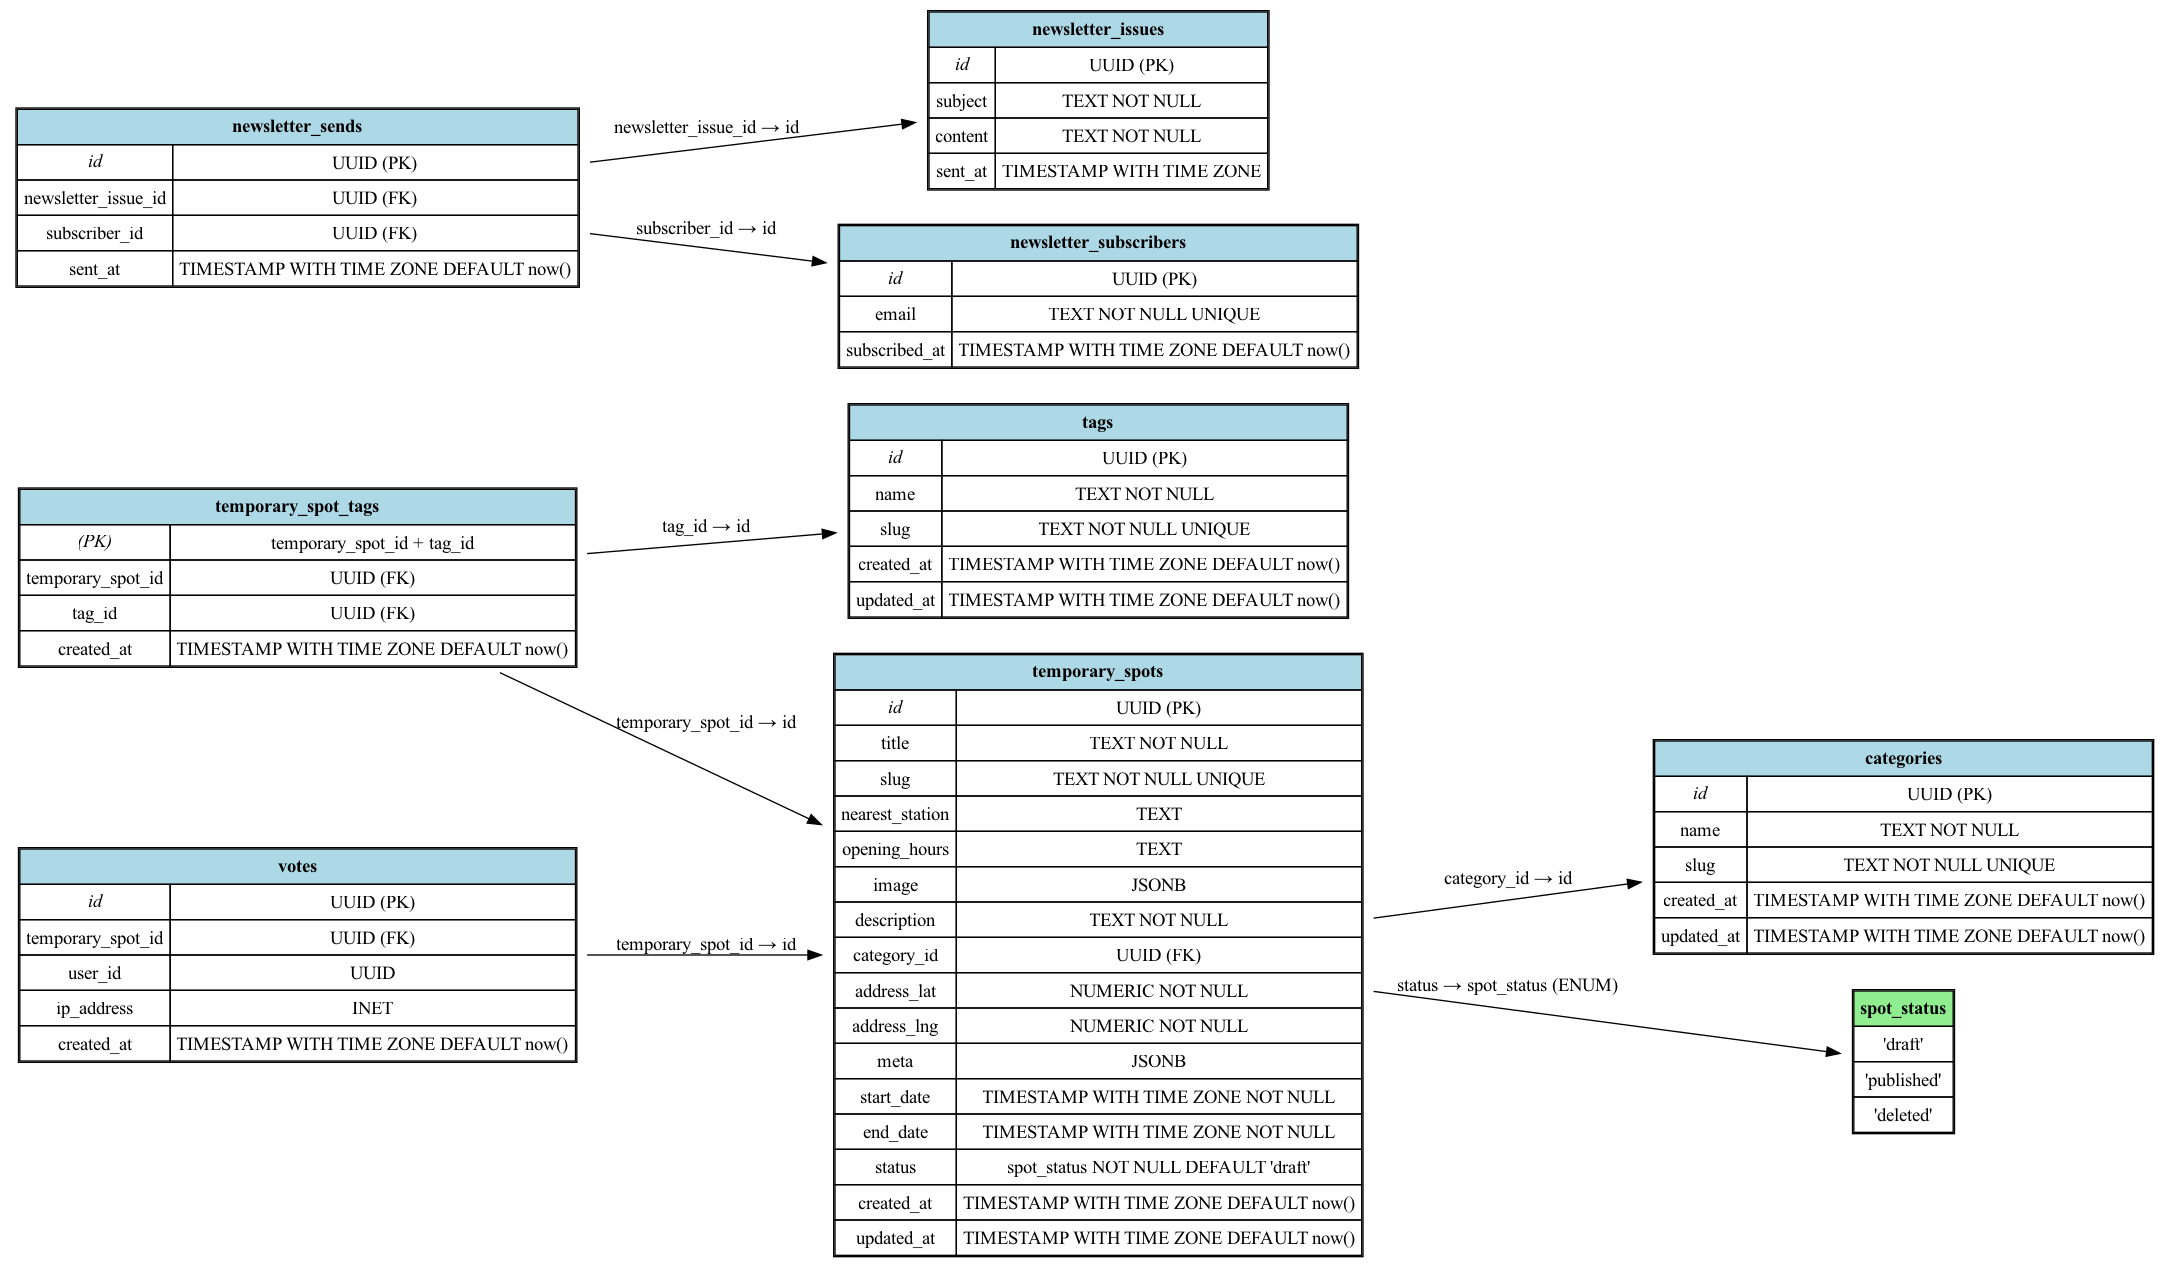
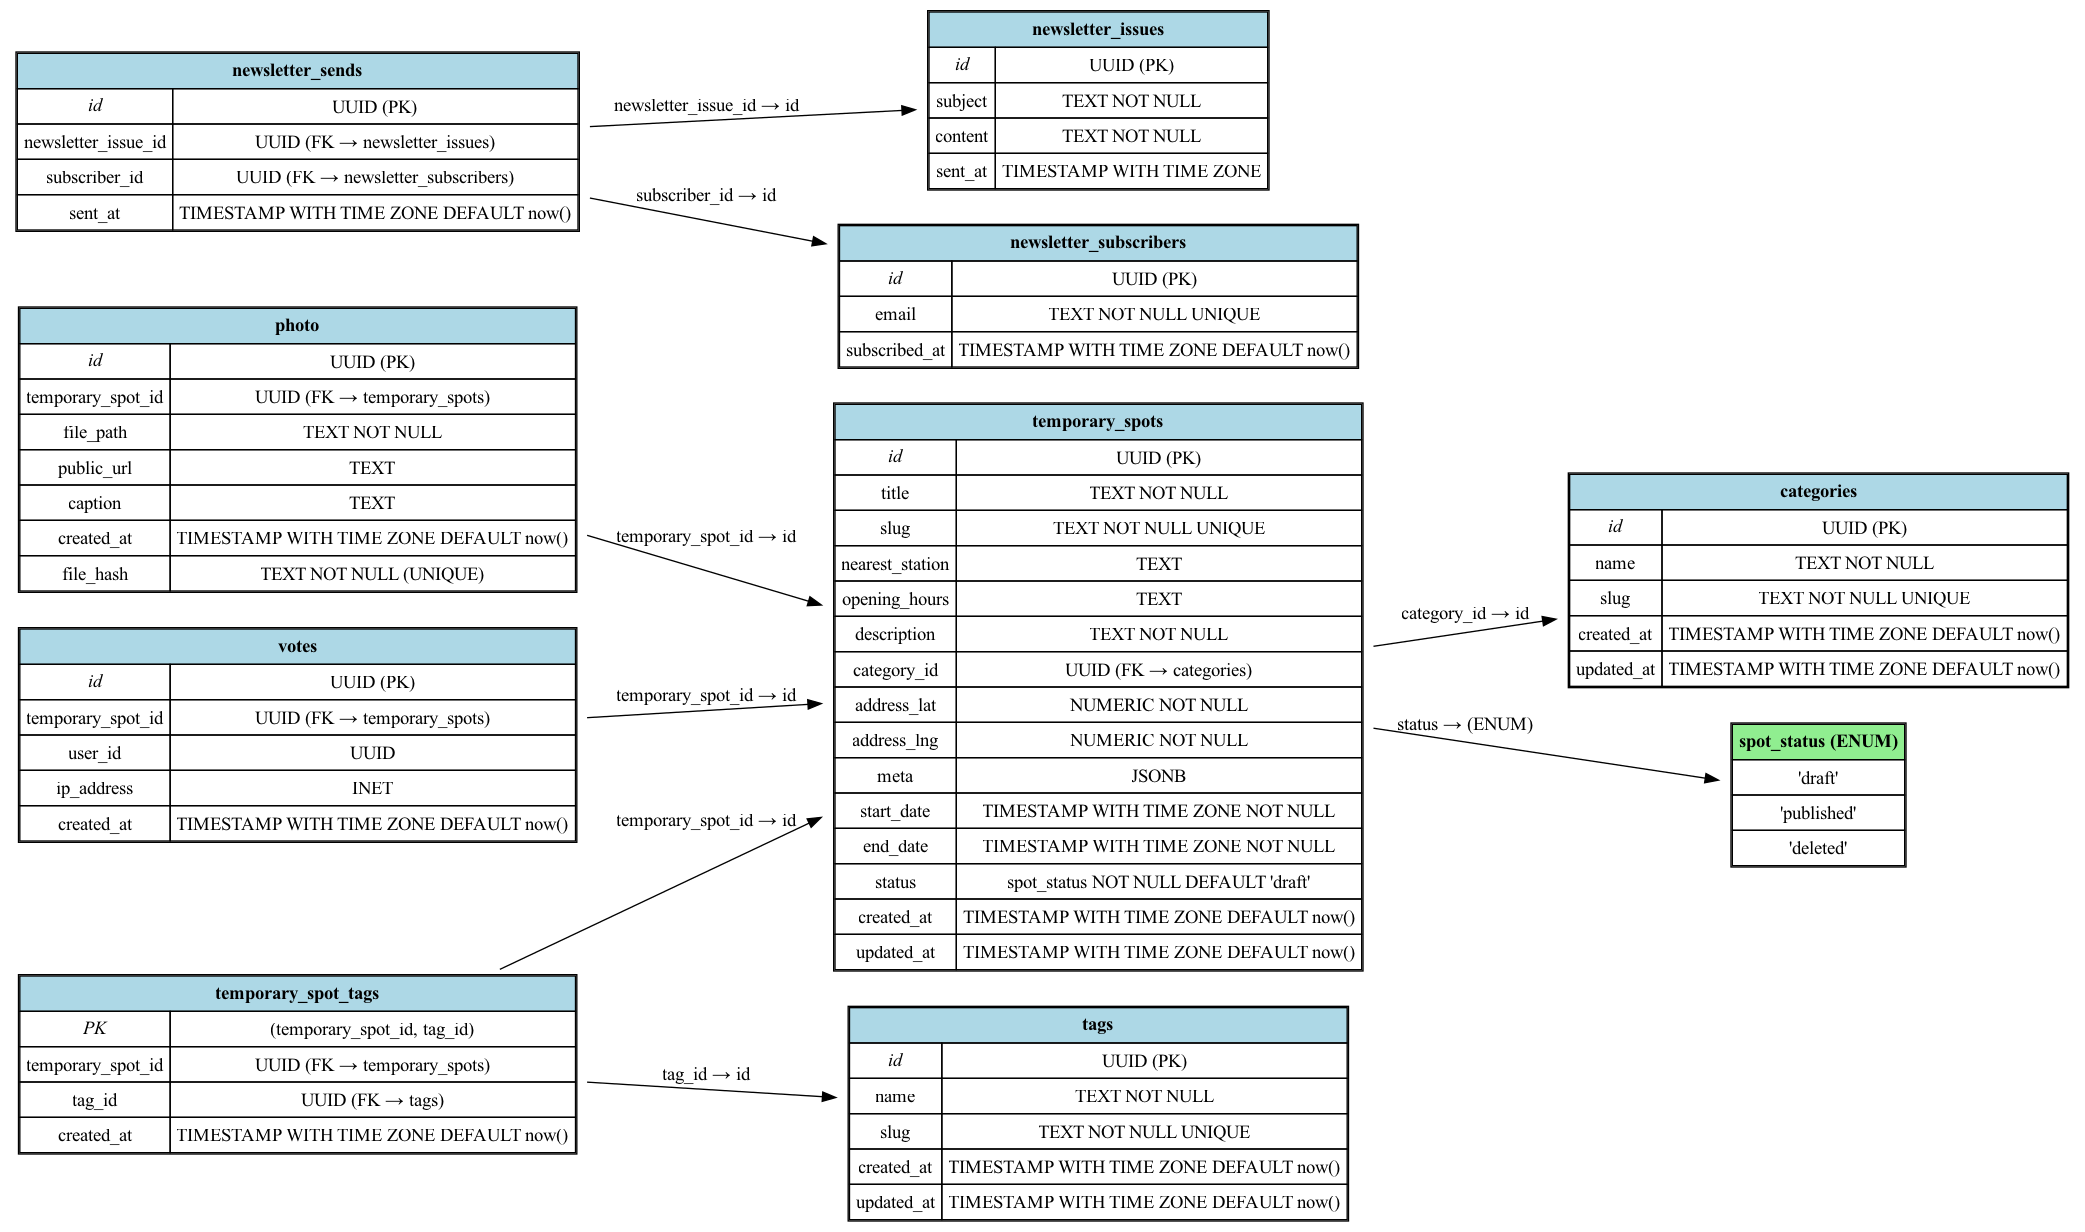
DBのER図を更新しました。

Changed region(s): [[0.0, 0.0, 0.9976, 1.0], [0.3118, 0.6477, 0.3429, 0.6786]]

diff --git a/ER-diagram/Supabase.py b/ER-diagram/Supabase.py
@@ -19,9 +19,8 @@ def create_er_diagram():
             "<TR><TD>slug</TD><TD>TEXT NOT NULL UNIQUE</TD></TR>"
             "<TR><TD>nearest_station</TD><TD>TEXT</TD></TR>"
             "<TR><TD>opening_hours</TD><TD>TEXT</TD></TR>"
-            "<TR><TD>image</TD><TD>JSONB</TD></TR>"
             "<TR><TD>description</TD><TD>TEXT NOT NULL</TD></TR>"
-            "<TR><TD>category_id</TD><TD>UUID (FK)</TD></TR>"
+            "<TR><TD>category_id</TD><TD>UUID (FK → categories)</TD></TR>"
             "<TR><TD>address_lat</TD><TD>NUMERIC NOT NULL</TD></TR>"
             "<TR><TD>address_lng</TD><TD>NUMERIC NOT NULL</TD></TR>"
             "<TR><TD>meta</TD><TD>JSONB</TD></TR>"
@@ -36,18 +35,56 @@ def create_er_diagram():
     )
 
     # =============================
-    # テーブル: categories
+    # テーブル: votes
     # =============================
     dot.node(
-        "categories",
+        "votes",
         label=(
             "<<TABLE BORDER='1' CELLBORDER='1' CELLSPACING='0' CELLPADDING='4'>"
-            "<TR><TD BGCOLOR='lightblue' COLSPAN='2'><B>categories</B></TD></TR>"
+            "<TR><TD BGCOLOR='lightblue' COLSPAN='2'><B>votes</B></TD></TR>"
             "<TR><TD><I>id</I></TD><TD>UUID (PK)</TD></TR>"
-            "<TR><TD>name</TD><TD>TEXT NOT NULL</TD></TR>"
-            "<TR><TD>slug</TD><TD>TEXT NOT NULL UNIQUE</TD></TR>"
+            "<TR><TD>temporary_spot_id</TD><TD>UUID (FK → temporary_spots)</TD></TR>"
+            "<TR><TD>user_id</TD><TD>UUID</TD></TR>"
+            "<TR><TD>ip_address</TD><TD>INET</TD></TR>"
             "<TR><TD>created_at</TD><TD>TIMESTAMP WITH TIME ZONE DEFAULT now()</TD></TR>"
-            "<TR><TD>updated_at</TD><TD>TIMESTAMP WITH TIME ZONE DEFAULT now()</TD></TR>"
+            "</TABLE>>"
+        ),
+        shape="none",
+    )
+
+    # =============================
+    # テーブル: temporary_spot_tags
+    # =============================
+    dot.node(
+        "temporary_spot_tags",
+        label=(
+            "<<TABLE BORDER='1' CELLBORDER='1' CELLSPACING='0' CELLPADDING='4'>"
+            "<TR><TD BGCOLOR='lightblue' COLSPAN='2'><B>temporary_spot_tags</B></TD></TR>"
+            "<TR><TD><I>PK</I></TD><TD>(temporary_spot_id, tag_id)</TD></TR>"
+            "<TR><TD>temporary_spot_id</TD><TD>UUID (FK → temporary_spots)</TD></TR>"
+            "<TR><TD>tag_id</TD><TD>UUID (FK → tags)</TD></TR>"
+            "<TR><TD>created_at</TD><TD>TIMESTAMP WITH TIME ZONE DEFAULT now()</TD></TR>"
+            "</TABLE>>"
+        ),
+        shape="none",
+    )
+
+    # =============================
+    # テーブル: temporary_spot_photos (photo)
+    # =============================
+    # SQL上では "photo" という名前ですが、用途に応じて分かりやすくノード名を変えても構いません。
+    dot.node(
+        "photo",
+        label=(
+            "<<TABLE BORDER='1' CELLBORDER='1' CELLSPACING='0' CELLPADDING='4'>"
+            "<TR><TD BGCOLOR='lightblue' COLSPAN='2'><B>photo</B></TD></TR>"
+            "<TR><TD><I>id</I></TD><TD>UUID (PK)</TD></TR>"
+            "<TR><TD>temporary_spot_id</TD><TD>UUID (FK → temporary_spots)</TD></TR>"
+            "<TR><TD>file_path</TD><TD>TEXT NOT NULL</TD></TR>"
+            "<TR><TD>public_url</TD><TD>TEXT</TD></TR>"
+            "<TR><TD>caption</TD><TD>TEXT</TD></TR>"
+            "<TR><TD>created_at</TD><TD>TIMESTAMP WITH TIME ZONE DEFAULT now()</TD></TR>"
+            "<TR><TD>file_hash</TD><TD>TEXT NOT NULL (UNIQUE)</TD></TR>"
             "</TABLE>>"
         ),
         shape="none",
@@ -72,35 +109,18 @@ def create_er_diagram():
     )
 
     # =============================
-    # テーブル: temporary_spot_tags
+    # テーブル: categories
     # =============================
     dot.node(
-        "temporary_spot_tags",
+        "categories",
         label=(
             "<<TABLE BORDER='1' CELLBORDER='1' CELLSPACING='0' CELLPADDING='4'>"
-            "<TR><TD BGCOLOR='lightblue' COLSPAN='2'><B>temporary_spot_tags</B></TD></TR>"
-            "<TR><TD><I>(PK)</I></TD><TD>temporary_spot_id + tag_id</TD></TR>"
-            "<TR><TD>temporary_spot_id</TD><TD>UUID (FK)</TD></TR>"
-            "<TR><TD>tag_id</TD><TD>UUID (FK)</TD></TR>"
-            "<TR><TD>created_at</TD><TD>TIMESTAMP WITH TIME ZONE DEFAULT now()</TD></TR>"
-            "</TABLE>>"
-        ),
-        shape="none",
-    )
-
-    # =============================
-    # テーブル: votes
-    # =============================
-    dot.node(
-        "votes",
-        label=(
-            "<<TABLE BORDER='1' CELLBORDER='1' CELLSPACING='0' CELLPADDING='4'>"
-            "<TR><TD BGCOLOR='lightblue' COLSPAN='2'><B>votes</B></TD></TR>"
+            "<TR><TD BGCOLOR='lightblue' COLSPAN='2'><B>categories</B></TD></TR>"
             "<TR><TD><I>id</I></TD><TD>UUID (PK)</TD></TR>"
-            "<TR><TD>temporary_spot_id</TD><TD>UUID (FK)</TD></TR>"
-            "<TR><TD>user_id</TD><TD>UUID</TD></TR>"
-            "<TR><TD>ip_address</TD><TD>INET</TD></TR>"
+            "<TR><TD>name</TD><TD>TEXT NOT NULL</TD></TR>"
+            "<TR><TD>slug</TD><TD>TEXT NOT NULL UNIQUE</TD></TR>"
             "<TR><TD>created_at</TD><TD>TIMESTAMP WITH TIME ZONE DEFAULT now()</TD></TR>"
+            "<TR><TD>updated_at</TD><TD>TIMESTAMP WITH TIME ZONE DEFAULT now()</TD></TR>"
             "</TABLE>>"
         ),
         shape="none",
@@ -148,8 +168,8 @@ def create_er_diagram():
             "<<TABLE BORDER='1' CELLBORDER='1' CELLSPACING='0' CELLPADDING='4'>"
             "<TR><TD BGCOLOR='lightblue' COLSPAN='2'><B>newsletter_sends</B></TD></TR>"
             "<TR><TD><I>id</I></TD><TD>UUID (PK)</TD></TR>"
-            "<TR><TD>newsletter_issue_id</TD><TD>UUID (FK)</TD></TR>"
-            "<TR><TD>subscriber_id</TD><TD>UUID (FK)</TD></TR>"
+            "<TR><TD>newsletter_issue_id</TD><TD>UUID (FK → newsletter_issues)</TD></TR>"
+            "<TR><TD>subscriber_id</TD><TD>UUID (FK → newsletter_subscribers)</TD></TR>"
             "<TR><TD>sent_at</TD><TD>TIMESTAMP WITH TIME ZONE DEFAULT now()</TD></TR>"
             "</TABLE>>"
         ),
@@ -159,13 +179,11 @@ def create_er_diagram():
     # =============================
     # spot_status（列挙型）
     # =============================
-    # ENUM 型はテーブルではないですが、必要に応じて図示するなら以下のような形でノードを作ってもOKです。
-    # 今回は列挙型のため、簡単にノードのみ追加例を示します。
     dot.node(
         "spot_status",
         label=(
             "<<TABLE BORDER='1' CELLBORDER='1' CELLSPACING='0' CELLPADDING='4'>"
-            "<TR><TD BGCOLOR='lightgreen'><B>spot_status</B></TD></TR>"
+            "<TR><TD BGCOLOR='lightgreen'><B>spot_status (ENUM)</B></TD></TR>"
             "<TR><TD>'draft'</TD></TR>"
             "<TR><TD>'published'</TD></TR>"
             "<TR><TD>'deleted'</TD></TR>"
@@ -177,10 +195,6 @@ def create_er_diagram():
     # =============================
     # 外部キー(FK)のリレーション
     # =============================
-
-    # temporary_spots -> categories (category_id)
-    dot.edge("temporary_spots", "categories", label="category_id → id")
-
     # votes -> temporary_spots (temporary_spot_id)
     dot.edge("votes", "temporary_spots", label="temporary_spot_id → id")
 
@@ -190,18 +204,23 @@ def create_er_diagram():
     # temporary_spot_tags -> tags (tag_id)
     dot.edge("temporary_spot_tags", "tags", label="tag_id → id")
 
+    # temporary_spots -> categories (category_id)
+    dot.edge("temporary_spots", "categories", label="category_id → id")
+
     # newsletter_sends -> newsletter_issues (newsletter_issue_id)
     dot.edge("newsletter_sends", "newsletter_issues", label="newsletter_issue_id → id")
 
     # newsletter_sends -> newsletter_subscribers (subscriber_id)
     dot.edge("newsletter_sends", "newsletter_subscribers", label="subscriber_id → id")
 
-    # temporary_spots.status -> spot_status
-    dot.edge("temporary_spots", "spot_status", label="status → spot_status (ENUM)")
+    # photo -> temporary_spots (temporary_spot_id)
+    dot.edge("photo", "temporary_spots", label="temporary_spot_id → id")
 
-    # ER 図の描画 (er_diagram.png が生成される)
-    output_path = "./Supabase"
-    dot.render(output_path, cleanup=True)
+    # temporary_spots.status -> spot_status
+    dot.edge("temporary_spots", "spot_status", label="status → (ENUM)")
+
+    # ER 図の描画
+    dot.render("Supabase", cleanup=True)
 
 
 if __name__ == "__main__":
